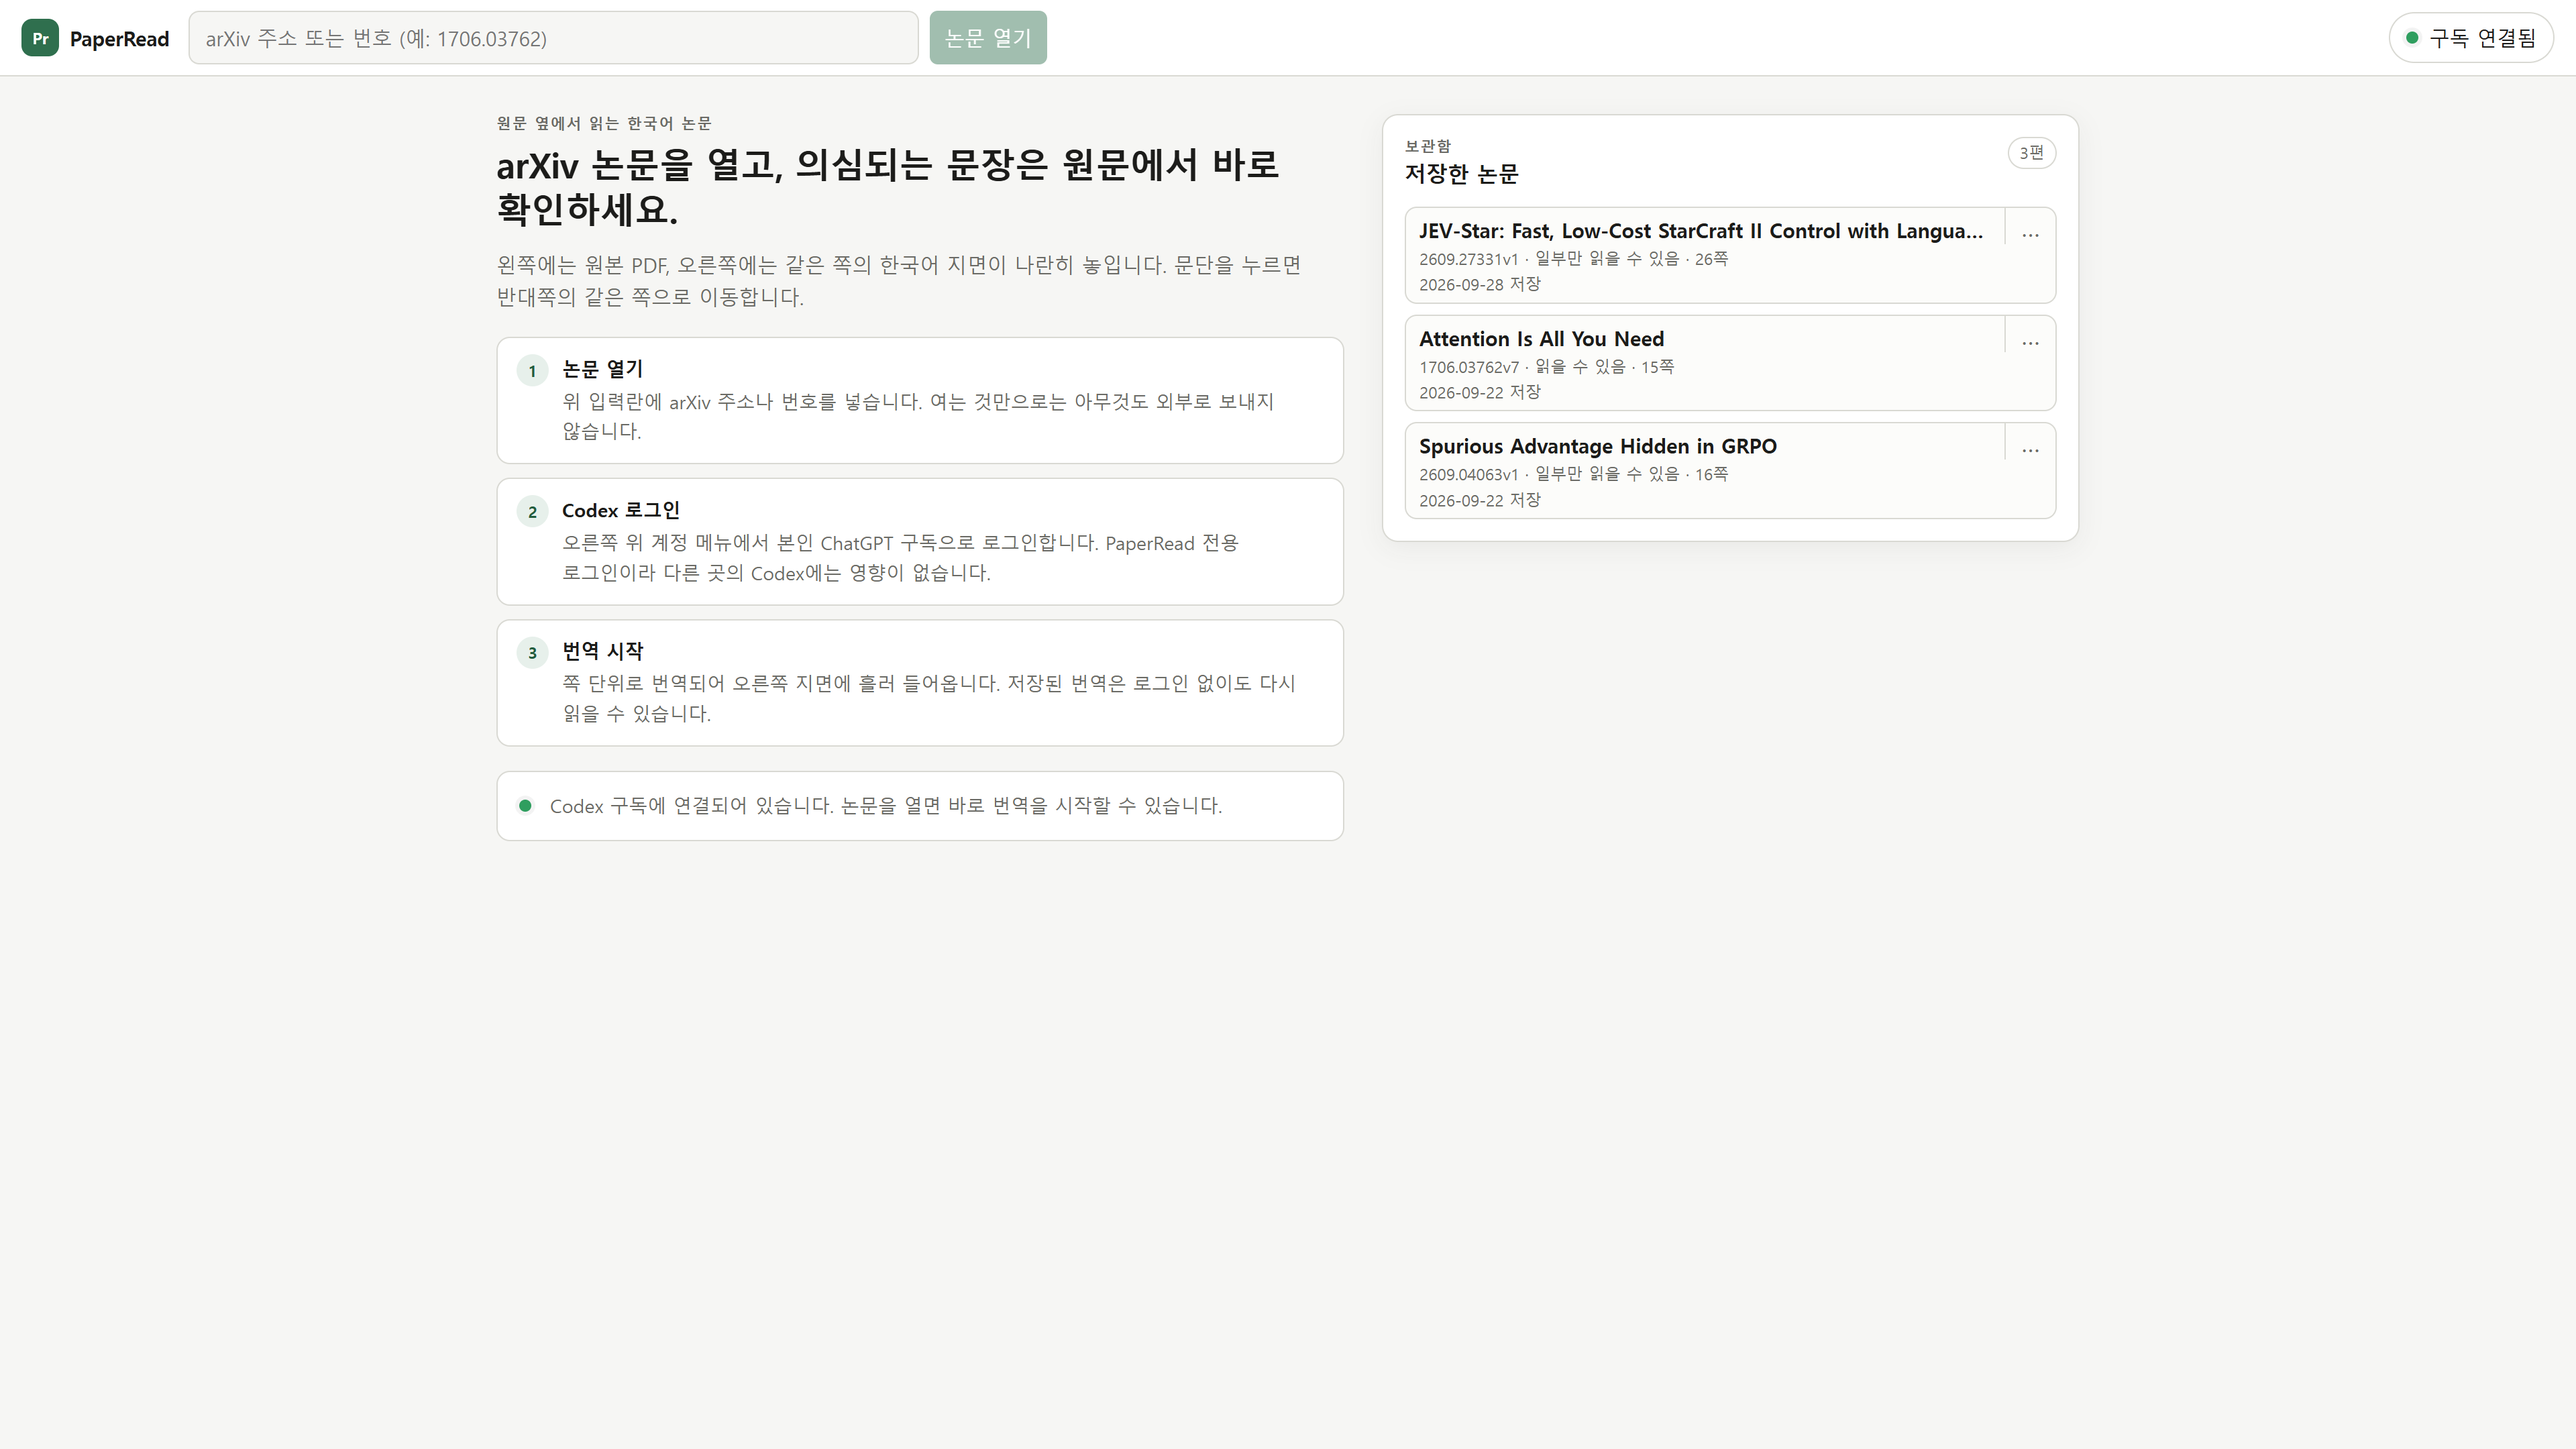
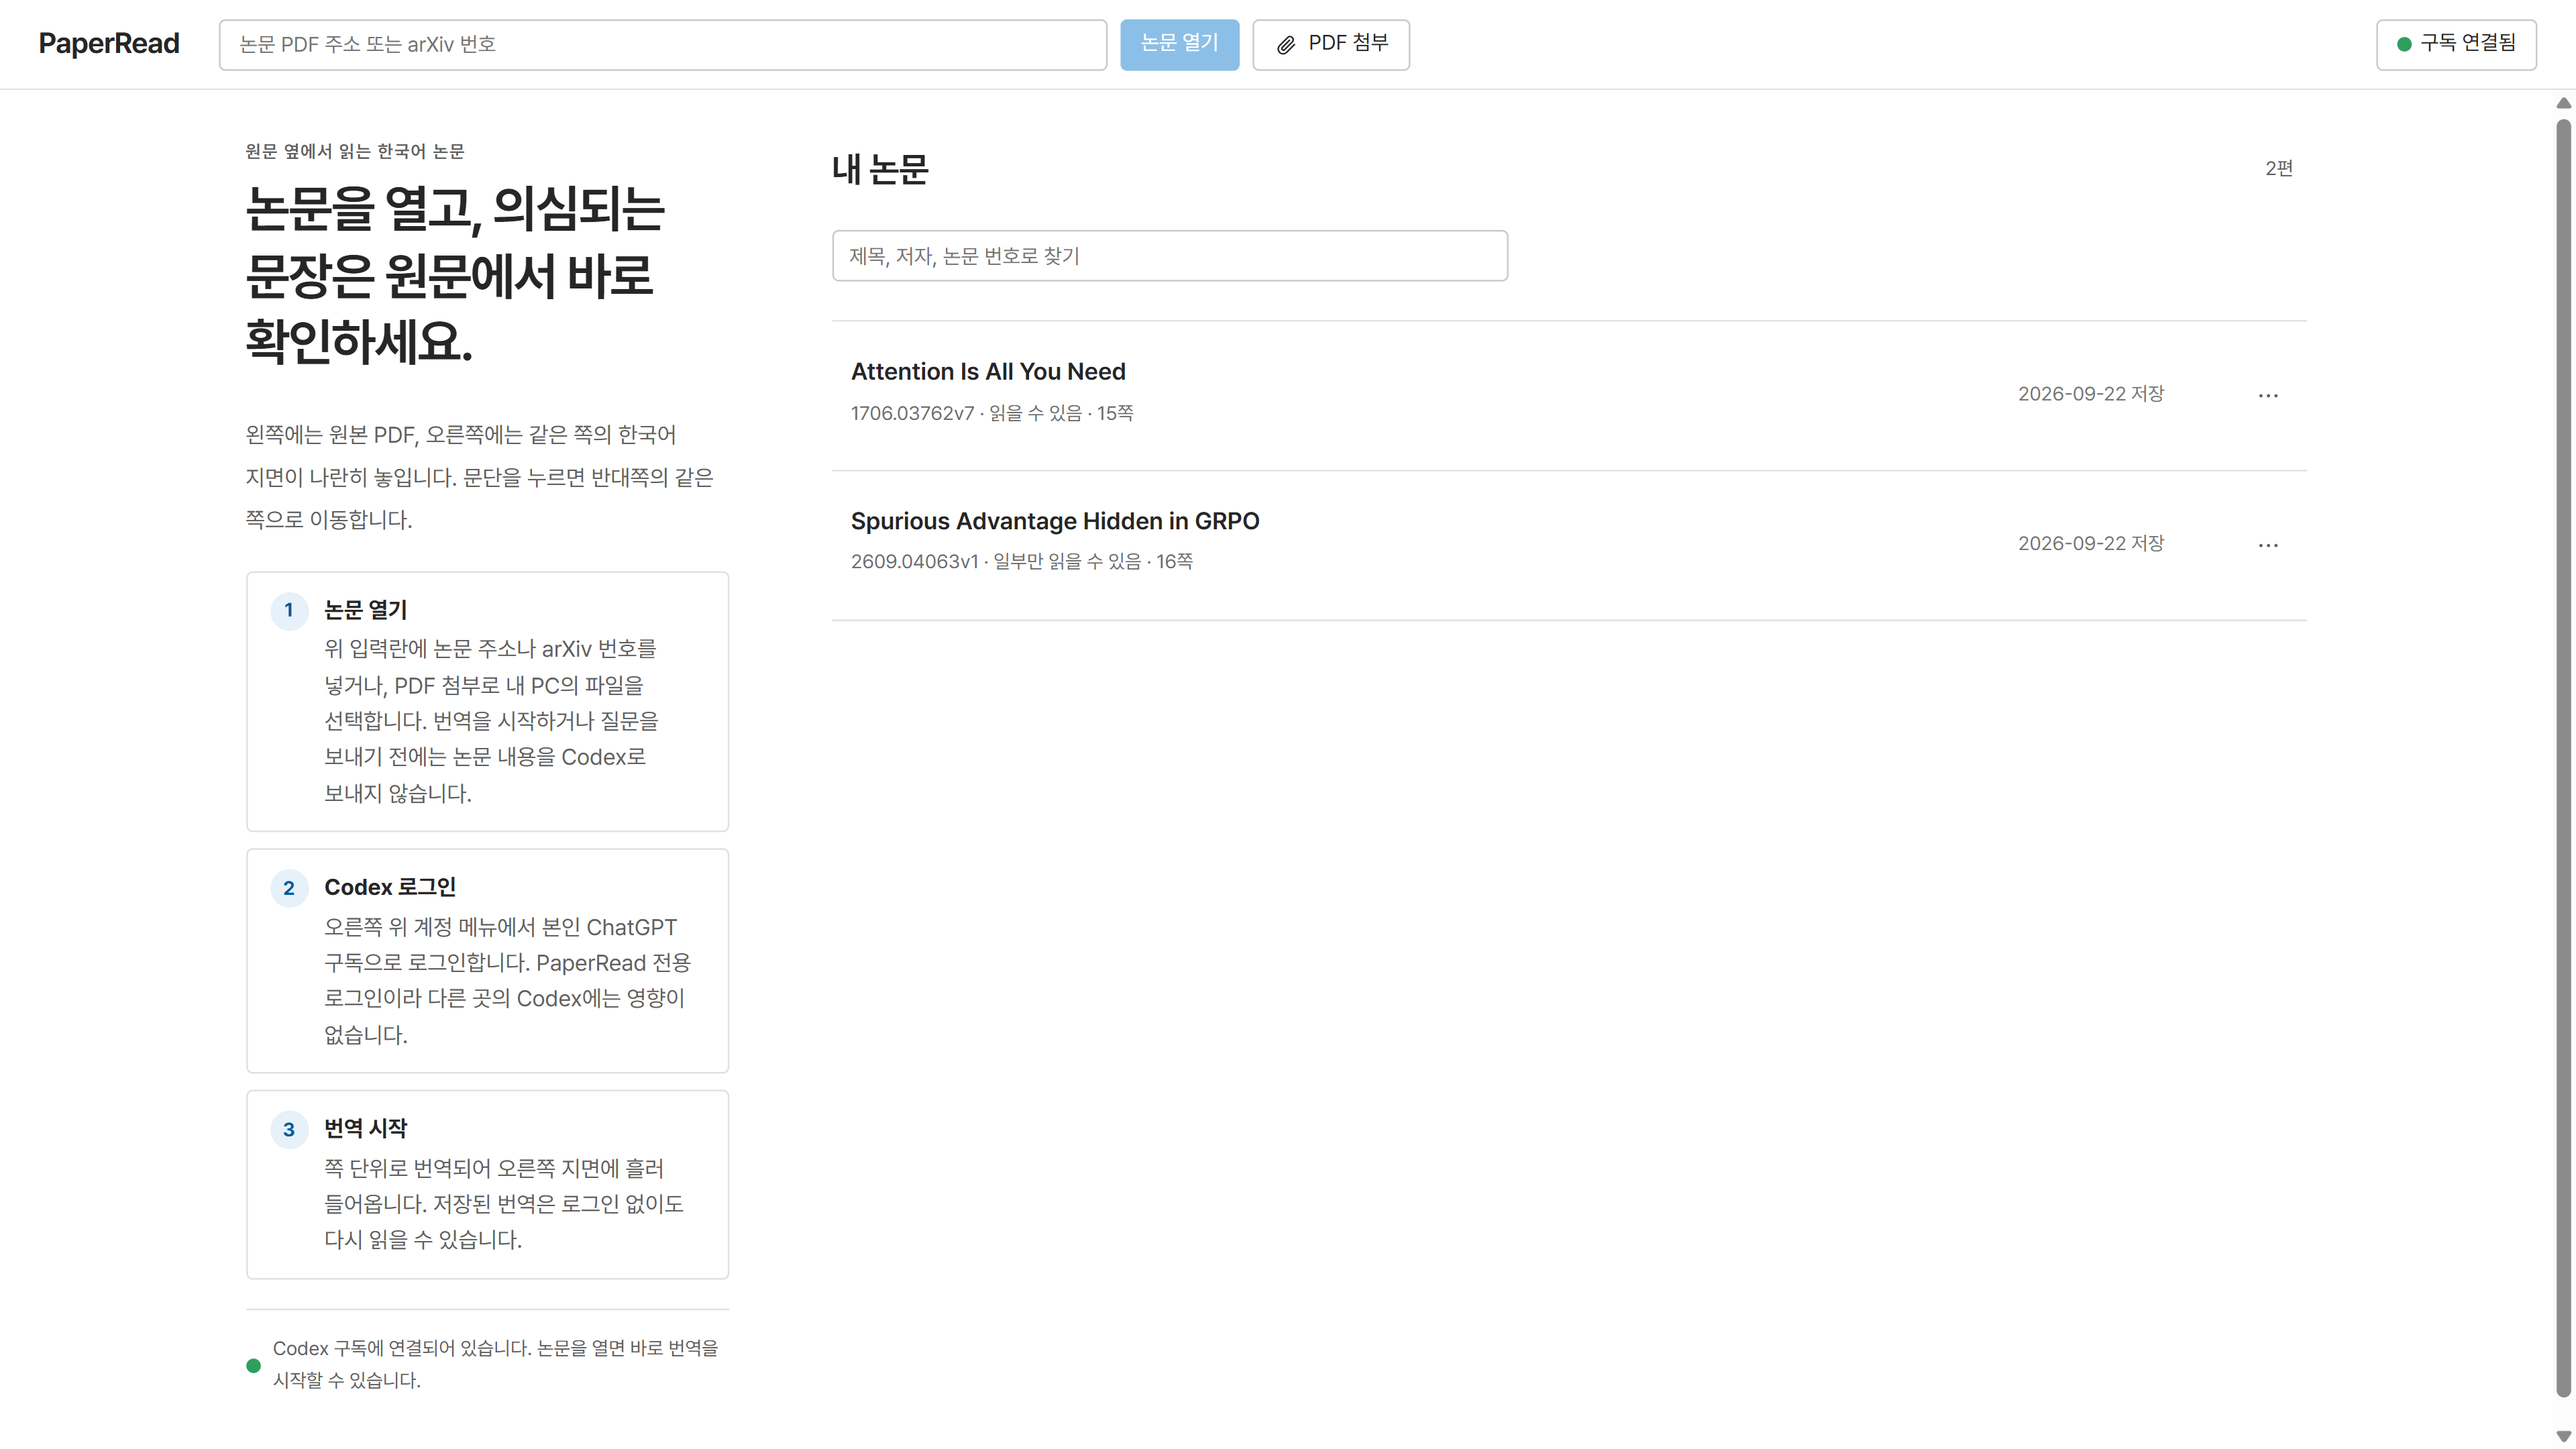
Keep highlights beside arXiv's side stamp on the dragged lines, refit an unzoomed page when its pane widens, and describe the new reading tools

diff --git a/src/client/App.tsx b/src/client/App.tsx
@@ -39,7 +39,7 @@ import {
   type Pane,
   type ScrollAnchor,
 } from './lib/sync';
-import { CONTROL_LIMITS, clampSplit, clampZoom, isReadable, nextPage, onePaneBesideChat, paragraphJumpDelay, shouldPoll } from './lib/view';
+import { CONTROL_LIMITS, FitWidth, clampSplit, clampZoom, isReadable, nextPage, onePaneBesideChat, paragraphJumpDelay, shouldPoll } from './lib/view';
 
 const POLL_MS = 1_500;
 const LOGIN_POLL_MS = 2_000;
@@ -161,7 +161,6 @@ export function App(): JSX.Element {
   const chatButtonRef = useRef<HTMLButtonElement | null>(null);
   const chatDockRef = useRef<HTMLElement | null>(null);
   const quoteCount = useRef(0);
-  const refitTimer = useRef<number | undefined>(undefined);
   // Below the sheet breakpoint the panel covers the reader; the covered reader is inert.
   const chatSheet = useMediaQuery(CHAT_SHEET_QUERY);
   const chatDocked = (chatOpen || notebookOpen) && !chatSheet;
@@ -203,6 +202,7 @@ export function App(): JSX.Element {
   const [leader, setLeader] = useState<Pane | null>(null);
   const [narrowPane, setNarrowPane] = useState<Pane>('source');
 
+  const sourcePane = useRef<HTMLElement | null>(null);
   const pdfBody = useRef<HTMLDivElement | null>(null);
   const textBody = useRef<HTMLDivElement | null>(null);
   const pageNodes = useRef(new Map<number, HTMLDivElement>());
@@ -904,13 +904,27 @@ export function App(): JSX.Element {
     return available <= 0 ? null : clampZoom(available / size.width);
   }, [currentPage]);
 
+  const [widthFit] = useState(() => new FitWidth(() => fitWidthRef.current()));
+  useEffect(() => () => widthFit.cancel(), [widthFit]);
+
   /** Zoom so the current page's width fills the source pane, the usual reading default. */
   const fitWidth = useCallback(() => {
     const zoomToFit = fitZoom();
-    if (zoomToFit !== null) changeZoom(zoomToFit - zoomRef.current);
-  }, [changeZoom, fitZoom]);
+    if (zoomToFit === null) return;
+    widthFit.fitted();
+    changeZoom(zoomToFit - zoomRef.current);
+  }, [changeZoom, fitZoom, widthFit]);
   const fitWidthRef = useRef(fitWidth);
   fitWidthRef.current = fitWidth;
+
+  /** 축소 and 확대, by button or key: the zoom stays as the pane changes, until 폭 맞춤. */
+  const zoomByHand = useCallback(
+    (delta: number) => {
+      widthFit.zoomedByHand();
+      changeZoom(delta);
+    },
+    [changeZoom, widthFit],
+  );
 
   // The first time a document's page sizes are known, start at fit-width rather than 100%.
   const fittedDoc = useRef<PDFDocumentProxy | null>(null);
@@ -1031,14 +1045,9 @@ export function App(): JSX.Element {
 
   // ---------------------------------------------------------- question panel
 
-  /**
-   * Open or shut the question panel. The docked panel narrows the reading panes; a source page
-   * that was fitted to its pane's width is fitted again once the panel has finished moving.
-   */
+  /** Open or shut the question panel. */
   const showChat = useCallback(
     (open: boolean, reading?: Pane) => {
-      const zoomToFit = fitZoom();
-      const fitted = zoomToFit !== null && Math.abs(zoomToFit - zoomRef.current) < 0.005;
       if (open) {
         setNotebookOpen(false);
         annotations.setMode('select');
@@ -1056,12 +1065,9 @@ export function App(): JSX.Element {
         const active = document.activeElement;
         if (active === null || active === document.body || chatDockRef.current?.contains(active) === true) chatButtonRef.current?.focus();
       }
-      window.clearTimeout(refitTimer.current);
-      if (fitted) refitTimer.current = window.setTimeout(() => fitWidthRef.current(), prefersReducedMotion() ? 0 : CHAT_TRANSITION_MS + 40);
     },
-    [fitZoom],
+    [],
   );
-  useEffect(() => () => window.clearTimeout(refitTimer.current), []);
 
   const closeChat = useCallback(() => showChat(false), [showChat]);
   const toggleChat = useCallback(() => showChat(!chatOpen), [showChat, chatOpen]);
@@ -1097,6 +1103,16 @@ export function App(): JSX.Element {
     return () => observer.disconnect();
   }, [paperKey]);
 
+  // The original's pane narrows or widens (a docked panel opens or shuts, the window or the split
+  // changes): a zoom that follows it is fitted again once a panel has finished sliding.
+  useEffect(() => {
+    const pane = sourcePane.current;
+    if (pane === null || typeof ResizeObserver === 'undefined') return;
+    const observer = new ResizeObserver(() => widthFit.resized(pane.clientWidth, prefersReducedMotion() ? 0 : CHAT_TRANSITION_MS + 40));
+    observer.observe(pane);
+    return () => observer.disconnect();
+  }, [paperKey, widthFit]);
+
   // Global keyboard shortcuts, skipped while the reader is typing or a dialog is open.
   useEffect(() => {
     const onKey = (event: KeyboardEvent) => {
@@ -1124,10 +1140,10 @@ export function App(): JSX.Element {
       switch (event.key) {
         case '+':
         case '=':
-          changeZoom(CONTROL_LIMITS.zoom.step);
+          zoomByHand(CONTROL_LIMITS.zoom.step);
           break;
         case '-':
-          changeZoom(-CONTROL_LIMITS.zoom.step);
+          zoomByHand(-CONTROL_LIMITS.zoom.step);
           break;
         case 'PageDown':
           goToPage(nextPage(currentPage, 1, pageCount));
@@ -1142,7 +1158,7 @@ export function App(): JSX.Element {
     };
     window.addEventListener('keydown', onKey);
     return () => window.removeEventListener('keydown', onKey);
-  }, [changeZoom, currentPage, pageCount, goToPage, accountOpen, loginAttempt, replacement, deleteConfirmation, renameTarget, chatOpen, closeChat]);
+  }, [zoomByHand, currentPage, pageCount, goToPage, accountOpen, loginAttempt, replacement, deleteConfirmation, renameTarget, chatOpen, closeChat]);
 
   // ------------------------------------------------------------------ view
 
@@ -1377,17 +1393,17 @@ export function App(): JSX.Element {
               onPointerDownCapture={paneMoved}
               onKeyDownCapture={paneMoved}
             >
-              <section className={`pane ${narrowPane === 'source' ? '' : 'hidden'}`} style={{ flex: `0 0 ${split * 100}%` }} aria-label="원본 PDF">
+              <section ref={sourcePane} className={`pane ${narrowPane === 'source' ? '' : 'hidden'}`} style={{ flex: `0 0 ${split * 100}%` }} aria-label="원본 PDF">
                 <div className="pane-head pane-head--source">
                   <span className="pane-title">원본</span>
                   <div className="pane-tools" role="group" aria-label="확대 조절">
-                    <button type="button" onClick={() => changeZoom(-CONTROL_LIMITS.zoom.step)} aria-label="축소" title="축소">
+                    <button type="button" onClick={() => zoomByHand(-CONTROL_LIMITS.zoom.step)} aria-label="축소" title="축소">
                       <IconMinus />
                     </button>
                     <span data-testid="zoom" className="pane-readout">
                       {Math.round(zoom * 100)}%
                     </span>
-                    <button type="button" onClick={() => changeZoom(CONTROL_LIMITS.zoom.step)} aria-label="확대" title="확대">
+                    <button type="button" onClick={() => zoomByHand(CONTROL_LIMITS.zoom.step)} aria-label="확대" title="확대">
                       <IconPlus size={16} thin />
                     </button>
                     <button type="button" onClick={fitWidth} aria-label="폭 맞춤" title="폭 맞춤">

diff --git a/src/client/lib/highlights.ts b/src/client/lib/highlights.ts
@@ -383,6 +383,20 @@ function readingOrder(spans: SpanBox[]): { lines: Line[]; locate(point: Point): 
   return { lines, locate };
 }
 
+/**
+ * Whether a run reads across the page, as a line does: its last glyph stands further along from
+ * its first than up or down. pdf.js turns some runs to read up the page, as the stamp arXiv sets
+ * up a first page's left margin: the box of such a run is as tall as the lines beside it, and
+ * taken as a line it would make them all one.
+ */
+function runsAcross(span: SpanBox): boolean {
+  const glyphs = span.glyphs ?? [];
+  if (glyphs.length < 2) return true;
+  const first = glyphs[0].rect;
+  const last = glyphs[glyphs.length - 1].rect;
+  return Math.abs(last.left - first.left) >= Math.abs(last.top - first.top);
+}
+
 /** Either end of a sweep: a point on the page, or the page's first or last line for a page
  * that a drag crossing pages begins before or ends after. */
 export type SweepEnd = Point | 'start' | 'end';
@@ -397,10 +411,11 @@ export type SweepEnd = Point | 'start' | 'end';
  * stream order, so a DOM range between two nearby runs can span half a page of equation
  * pieces and the other column. Returns one rect per swept line plus the swept text. A rect
  * takes its height from the line's text runs; pdf.js glyph boxes are taller than the line,
- * and neighbouring lines' boxes would overlap.
+ * and neighbouring lines' boxes would overlap. A run that reads up or down the page is on no
+ * line and is never swept (runsAcross).
  */
 export function sweepSelection(spans: SpanBox[], from: SweepEnd, to: SweepEnd): { rects: PixelRect[]; text: string } | null {
-  const layout = readingOrder(spans.filter((span) => span.rect.width > 0 && span.rect.height > 0 && span.text.trim().length > 0));
+  const layout = readingOrder(spans.filter((span) => span.rect.width > 0 && span.rect.height > 0 && span.text.trim().length > 0 && runsAcross(span)));
   if (layout === null) return null;
   const { lines, locate } = layout;
   const place = (end: SweepEnd) => (end === 'start' ? { line: 0, x: -Infinity } : end === 'end' ? { line: lines.length - 1, x: Infinity } : { line: locate(end), x: end.x });

diff --git a/src/client/lib/view.ts b/src/client/lib/view.ts
@@ -20,6 +20,46 @@ export function clampSplit(value: number): number {
 }
 
 /**
+ * The original's zoom against its pane's width. A zoom the reader did not set by hand (the first
+ * fit of a paper, 폭 맞춤) is fitted to the pane again whenever the pane's width changes, both
+ * ways: a docked panel opens or shuts, the window or the split changes. `refit` waits until the
+ * width has held still for `settleMs`, so a panel's slide or a drag fits once. A zoom set by hand
+ * (축소, 확대) stays until 폭 맞춤.
+ */
+export class FitWidth {
+  private width: number | null = null;
+  private follows = true;
+  private timer: ReturnType<typeof setTimeout> | undefined;
+
+  constructor(private readonly refit: () => void) {}
+
+  /** The zoom was just fitted to the pane's width: it follows the pane from now on. */
+  fitted(): void {
+    this.follows = true;
+  }
+
+  /** The reader zoomed by hand: the zoom stays, and a fit still waiting is given up. */
+  zoomedByHand(): void {
+    this.follows = false;
+    this.cancel();
+  }
+
+  /** The pane measures `width` now. Its first measure, or the same width again, changes nothing. */
+  resized(width: number, settleMs: number): void {
+    const before = this.width;
+    this.width = width;
+    if (before === null || before === width || !this.follows) return;
+    this.cancel();
+    this.timer = setTimeout(this.refit, settleMs);
+  }
+
+  cancel(): void {
+    clearTimeout(this.timer);
+    this.timer = undefined;
+  }
+}
+
+/**
  * Below this width the reader shows one pane at a time beside the docked question panel. Two
  * panes in less room each fit their page to under ~550 px, and the Korean page's text — which
  * scales with the page — drops to 5–7 px on a laptop screen.
